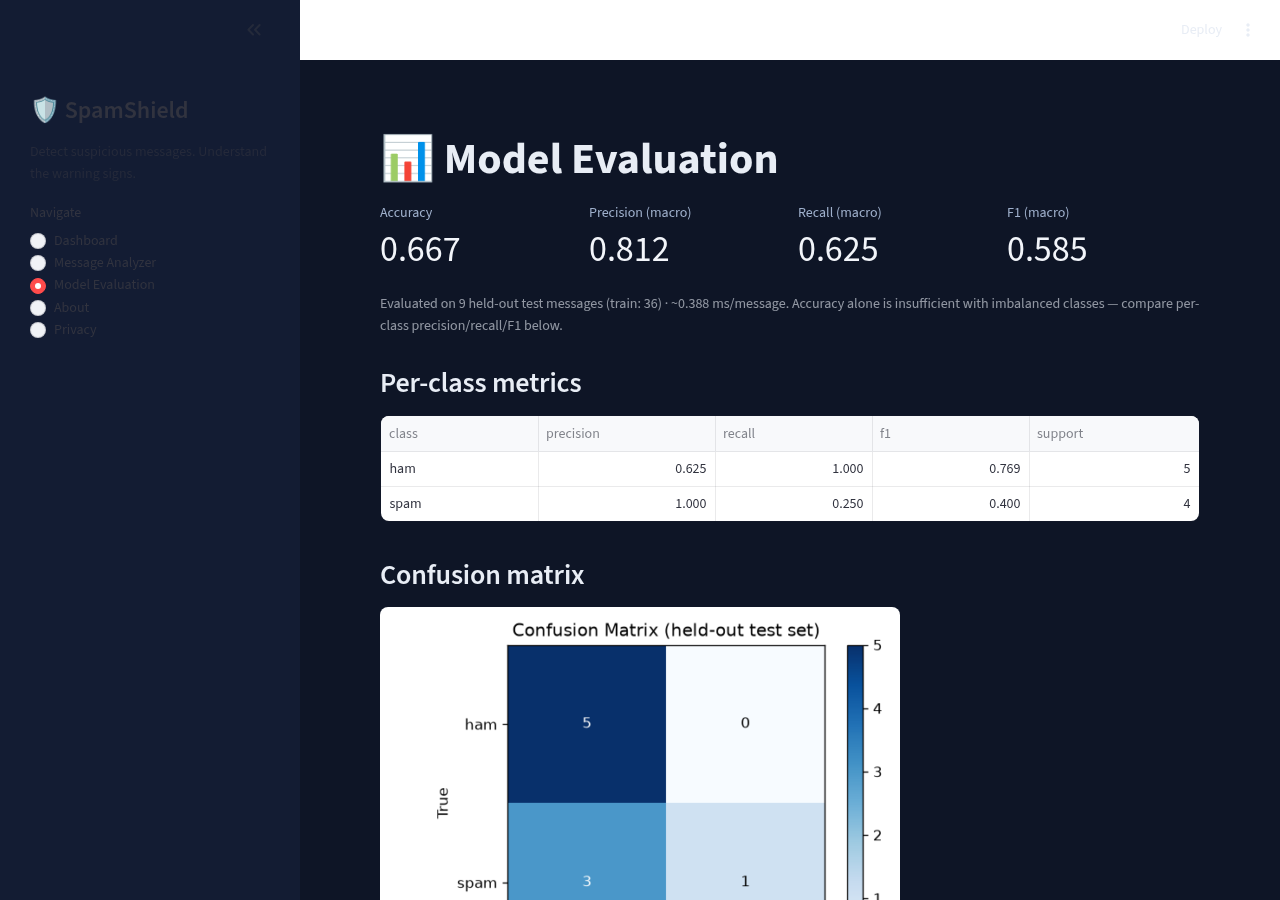
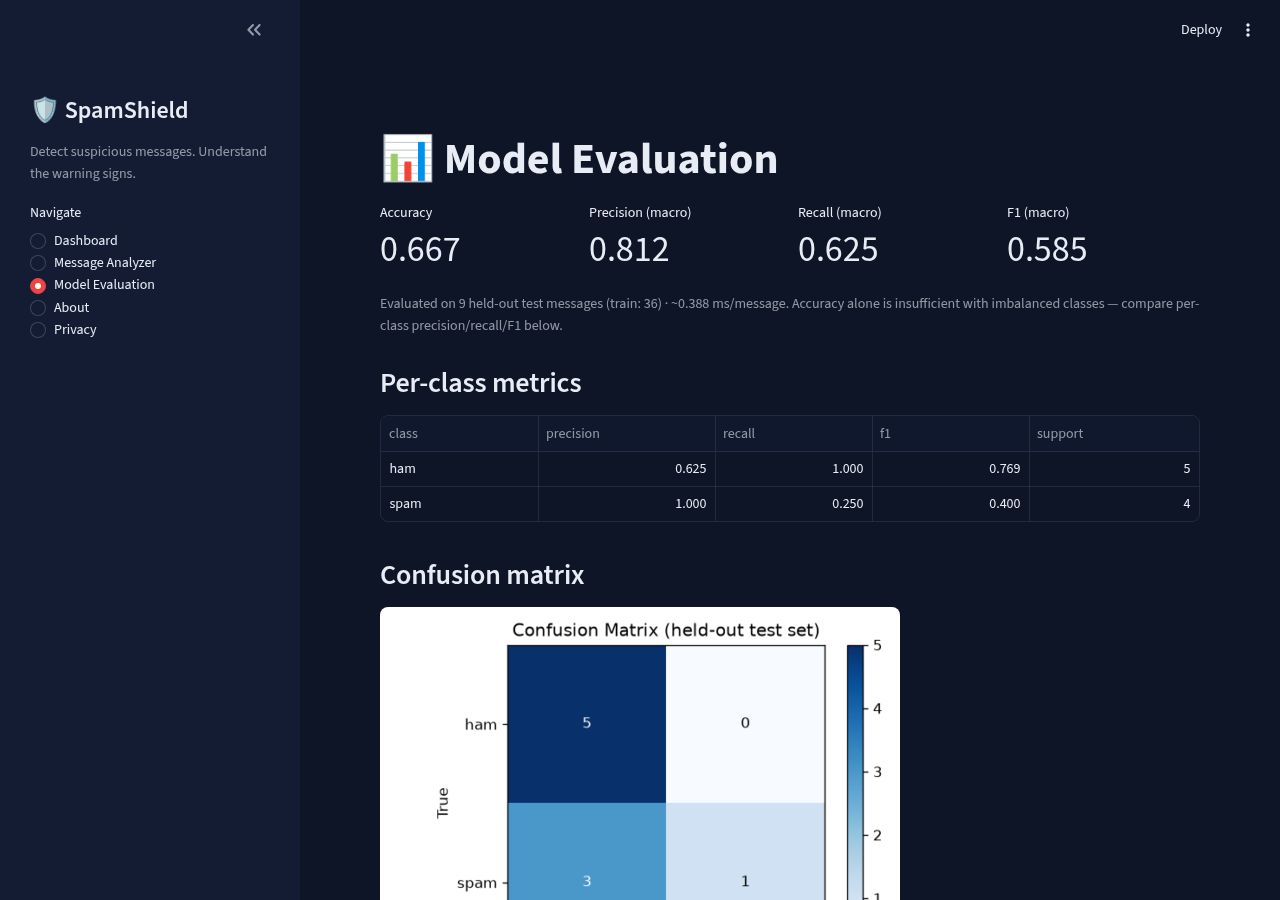
Theme-safe UI: remove hardcoded dark CSS, define dark theme in config, light mode fully readable

diff --git a/app.py b/app.py
@@ -20,28 +20,22 @@ st.set_page_config(page_title="SpamShield", page_icon="🛡", layout="wide")
 
 CUSTOM_CSS = """
 <style>
-.stApp { background: #0e1526; color: #e8edf5; }
-section[data-testid="stSidebar"] { background: #131c33; }
-h1, h2, h3 { color: #f2f5fa; }
-.stTextArea textarea { background: #1a2440; color: #f2f5fa; border-radius: 10px; }
+/* Structural polish only. No global background/text colors are set here, so
+   both dark and light modes stay readable. Accent components below carry
+   their OWN background AND text colors, rendering identically either way. */
+.stButton > button { border-radius: 10px; font-weight: 600; }
 .badge { display:inline-block; padding:6px 14px; border-radius:999px; font-weight:700; }
 .badge-ham { background:#123d2b; color:#4ade80; border:1px solid #22c55e; }
 .badge-spam { background:#40260f; color:#fbbf24; border:1px solid #f59e0b; }
 .badge-scam { background:#421418; color:#f87171; border:1px solid #ef4444; }
 .badge-unknown { background:#2a3350; color:#cbd5e1; border:1px solid #64748b; }
-.card { background:#16203a; border:1px solid #2b3a5f; border-radius:12px; padding:16px 18px; margin:10px 0; }
+.card { background:#16203a; border:1px solid #2b3a5f; color:#e8edf5;
+        border-radius:12px; padding:16px 18px; margin:10px 0; }
 .risk-low { border-left:6px solid #22c55e; }
 .risk-caution { border-left:6px solid #f59e0b; }
 .risk-elevated { border-left:6px solid #ef4444; }
-.small { color:#9fb0cc; font-size:0.9em; }
-[data-testid="stMetricValue"] { color: #f2f5fa; }
-[data-testid="stMetricLabel"] { color: #9fb0cc; }
-.stButton > button { border-radius: 10px; font-weight: 600; color: #0e1526; }
-.stButton > button[kind="primary"] { color: #ffffff; }
-.stButton > button:hover { color: #0e1526; }
-.stButton > button[kind="primary"]:hover { color: #ffffff; }
 .prob-row { margin: 2px 0 10px 0; }
-.prob-label { font-size: 0.9em; color: #cbd5e1; margin-bottom: 2px; }
+.prob-label { font-size: 0.9em; margin-bottom: 2px; }
 </style>
 """
 st.markdown(CUSTOM_CSS, unsafe_allow_html=True)
